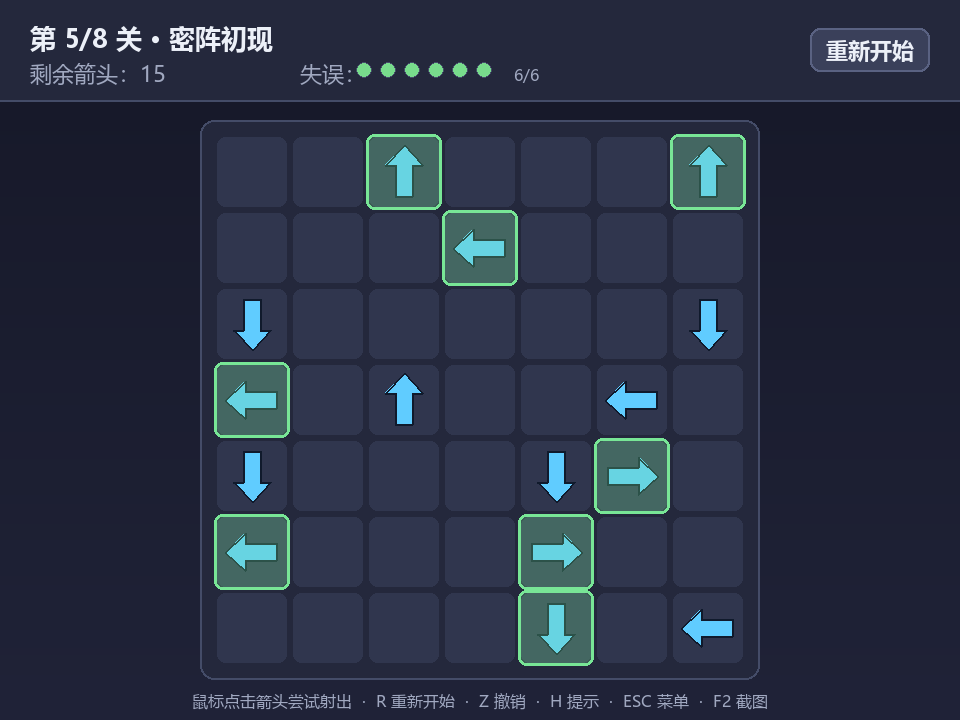
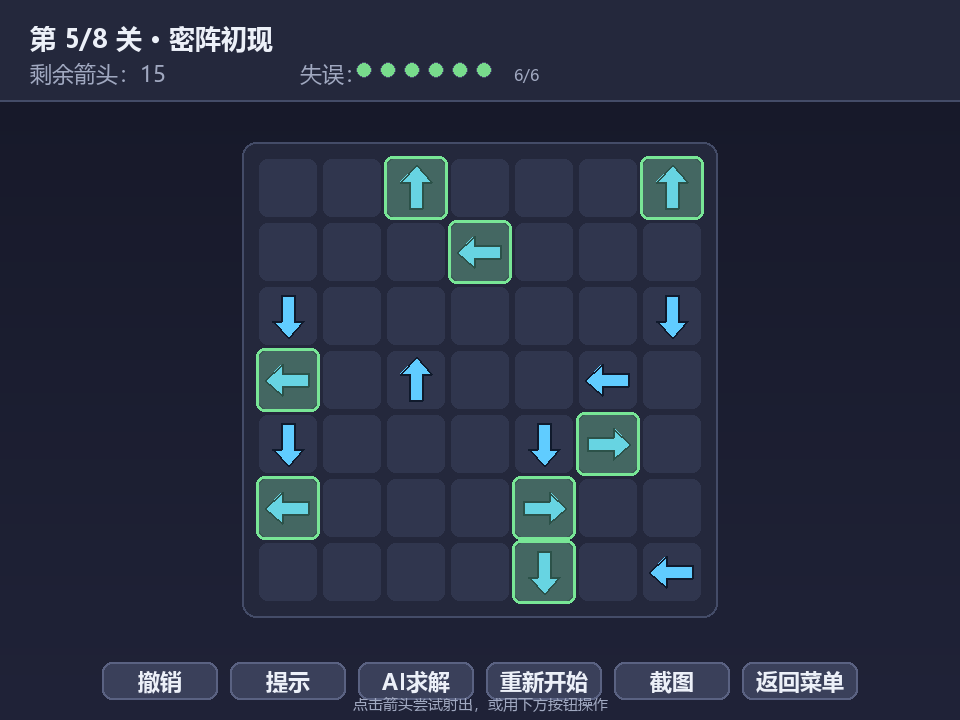
feat: 全部功能做成底部按钮（撤销/提示/AI求解/重新开始/截图/菜单），无需键盘

Changed region(s): [[0.0938, 0.1833, 0.9062, 1.0], [0.8438, 0.0306, 0.9688, 0.1222], [0.4062, 0.4889, 0.4688, 0.6111]]

diff --git a/第二次作业/arrow_game.py b/第二次作业/arrow_game.py
@@ -36,7 +36,7 @@ import pygame
 # ============================== 基础配置 ==============================
 WIN_W, WIN_H = 960, 720
 FPS = 60
-CELL = 76                     # 每格像素边长
+CELL = 64                     # 每格像素边长（缩小以留出底部按钮栏）
 ARROW_SCALE = 0.82            # 箭头相对格子的大小
 
 # 配色
@@ -474,7 +474,20 @@ class Game:
         self.retry_btn = Button((WIN_W // 2 - 120, WIN_H // 2 + 30, 240, 54), "重新开始")
         self.menu_return_btn = Button((WIN_W // 2 - 110, WIN_H // 2 + 98, 220, 44),
                                       "返回菜单", text_color=C_DIM)
-        self.hud_restart = Button((WIN_W - 150, 28, 120, 44), "重新开始")
+        # 底部操作按钮栏（把原先的键盘功能全部做成按钮）
+        bw, bh, gap = 116, 38, 12
+        labels = [("撤销", C_DIM), ("提示", C_HINT), ("AI求解", C_OK),
+                  ("重新开始", C_ACCENT), ("截图", C_DIM), ("返回菜单", C_DIM)]
+        total = len(labels) * bw + (len(labels) - 1) * gap
+        x0 = (WIN_W - total) // 2
+        by = WIN_H - 58
+        self.action_labels = [l for l, _ in labels]
+        self.action_buttons = []
+        for i, (lab, col) in enumerate(labels):
+            self.action_buttons.append(
+                Button((x0 + i * (bw + gap), by, bw, bh), lab, text_color=col))
+        self.btn_undo, self.btn_hint, self.btn_solve, \
+            self.btn_restart, self.btn_shot, self.btn_menu = self.action_buttons
 
         self.feedback = ""
         self.feedback_t = 0.0
@@ -512,7 +525,7 @@ class Game:
         gw = self.cols * CELL
         gh = self.rows * CELL
         self.grid_x = (WIN_W - gw) // 2
-        self.grid_y = 120 + (WIN_H - 120 - 40 - gh) // 2
+        self.grid_y = 120 + (WIN_H - 120 - 80 - gh) // 2   # 底部留 80px 给按钮栏
 
     def load_level(self, i):
         """加载固定关卡 i（关卡/画廊模式）。"""
@@ -691,7 +704,21 @@ class Game:
 
     # ---------- 截图 ----------
     def save_screenshot(self):
-        name = f"shot_{int(time.time())}.png"
+        name = f"arrow_{int(time.time())}.png"
+        # 网页版：把游戏 canvas 直接导出为 PNG 并触发下载
+        try:
+            from js import document            # 仅 pygbag 环境存在
+            cvs = document.querySelectorAll("canvas")
+            if cvs.length:
+                a = document.createElement("a")
+                a.setAttribute("href", cvs[0].toDataURL("image/png"))
+                a.setAttribute("download", name)
+                a.click()
+                self.set_feedback("已下载截图 " + name, 1.6)
+                return
+        except Exception:
+            pass
+        # 桌面版：保存到 screenshots/
         try:
             os.makedirs("screenshots", exist_ok=True)
             pygame.image.save(self.screen, os.path.join("screenshots", name))
@@ -755,9 +782,29 @@ class Game:
             elif self.random_btn.clicked(mpos):
                 self.enter_random_mode()
         elif self.state == self.PLAYING:
-            if self.hud_restart.clicked(mpos):
+            if self.btn_undo.clicked(mpos):
+                self.stop_auto_solve()
+                self.undo()
+            elif self.btn_hint.clicked(mpos):
+                self.stop_auto_solve()
+                self.hint_t = 2.2
+                n = sum(1 for r in range(self.rows) for c in range(self.cols)
+                        if self.board[r][c] and self.is_clear(r, c, self.board[r][c].d))
+                self.set_feedback(f"提示：当前有 {n} 支箭头可射出")
+            elif self.btn_solve.clicked(mpos):
+                if self.auto_solving:
+                    self.stop_auto_solve()
+                    self.set_feedback("已停止 AI 求解")
+                else:
+                    self.start_auto_solve()
+            elif self.btn_restart.clicked(mpos):
                 self.stop_auto_solve()
                 self.restart_level()
+            elif self.btn_shot.clicked(mpos):
+                self.save_screenshot()
+            elif self.btn_menu.clicked(mpos):
+                self.stop_auto_solve()
+                self.state = self.MENU
             else:
                 cell = self.pixel_to_cell(*mpos)
                 if cell:
@@ -783,7 +830,8 @@ class Game:
         self.next_btn.update(mpos)
         self.retry_btn.update(mpos)
         self.menu_return_btn.update(mpos)
-        self.hud_restart.update(mpos)
+        for b in self.action_buttons:
+            b.update(mpos)
         self.title_t += dt
         if self.feedback_t > 0:
             self.feedback_t -= dt
@@ -863,9 +911,12 @@ class Game:
         self.draw_hud()
         self.draw_grid()
         self.draw_projectiles()
-        hint_txt = "鼠标点击箭头尝试射出  ·  R 重新开始  ·  Z 撤销  ·  H 提示  ·  S AI求解  ·  ESC 菜单  ·  F2 截图"
-        t = font(16).render(hint_txt, True, C_DIM)
-        self.screen.blit(t, t.get_rect(midbottom=(WIN_W // 2, WIN_H - 8)))
+        # 底部操作按钮栏
+        for b in self.action_buttons:
+            b.draw(self.screen)
+        tip = "点击箭头尝试射出，或用下方按钮操作"
+        t = font(15).render(tip, True, C_DIM)
+        self.screen.blit(t, t.get_rect(midbottom=(WIN_W // 2, WIN_H - 6)))
 
     def draw_hud(self):
         bar = pygame.Rect(0, 0, WIN_W, 100)
@@ -891,7 +942,6 @@ class Game:
             pygame.draw.circle(self.screen, C_CELL_LINE, (px, py), 8, 1)
         remain = font(16).render(f"{self.mistakes}/{self.mistakes_max}", True, C_DIM)
         self.screen.blit(remain, (300 + 64 + self.mistakes_max * 24 + 6, 64))
-        self.hud_restart.draw(self.screen)
 
     def draw_grid(self):
         pad = 14

diff --git a/第二次作业/README.md b/第二次作业/README.md
@@ -69,18 +69,21 @@ python arrow_game.py
 
 ## 游戏操作说明
 
+> 游戏界面底部提供**按钮栏**：撤销 / 提示 / AI求解 / 重新开始 / 截图 / 返回菜单——**纯鼠标即可完成全部操作**，键盘快捷键同样保留。
+
 | 操作 | 作用 |
 | --- | --- |
 | 鼠标左键 | 点击箭头，尝试让其飞出棋盘 |
-| `R` | 重新开始当前关卡 |
-| `Z` | 撤销上一步（附加功能） |
-| `H` | 提示当前可飞出的箭头（附加功能） |
-| `S` | AI 自动求解当前关卡（附加功能） |
-| `空格` / `回车` | 开始 / 下一关 / 失败后重试 |
-| `ESC` | 返回菜单 / 再按退出 |
-| `F2` | 保存当前画面截图到 `screenshots/` |
+| 底部按钮栏 | 撤销、提示、AI求解、重新开始、截图、返回菜单 |
+| `R` | 重新开始当前关卡（快捷键） |
+| `Z` | 撤销上一步（快捷键） |
+| `H` | 提示当前可飞出的箭头（快捷键） |
+| `S` | AI 自动求解当前关卡（快捷键） |
+| `空格` / `回车` | 开始 / 下一关 / 失败后重试（快捷键） |
+| `ESC` | 返回菜单 / 再按退出（快捷键） |
+| `F2` | 保存当前画面截图（快捷键） |
 
-界面元素：顶部状态栏显示 **当前关卡、剩余箭头数、剩余失误次数（圆点）**，右上角为「重新开始」按钮。
+界面元素：顶部状态栏显示 **当前关卡、剩余箭头数、剩余失误次数（圆点）**；底部按钮栏提供全部操作按钮。
 
 ## 游戏截图
 

diff --git a/第二次作业/软件工程第二次个人作业.md b/第二次作业/软件工程第二次个人作业.md
@@ -27,7 +27,7 @@
 
 ![游戏界面](screenshots/02_play_level1.png)
 
-顶部状态栏显示当前关卡、剩余箭头数、剩余失误次数（以圆点表示），右上角为「重新开始」按钮。
+顶部状态栏显示当前关卡、剩余箭头数、剩余失误次数（以圆点表示），底部按钮栏提供撤销 / 提示 / AI求解 / 重新开始 / 截图 / 返回菜单，纯鼠标即可完成全部操作。
 
 ### 3. 提示功能（附加）
 
@@ -87,8 +87,7 @@
 
 - 顶部状态栏：当前关卡（X / 关卡总数）、剩余箭头数、剩余失误次数（圆点 + 数字）；
 - 中央棋盘：按关卡尺寸自动居中的网格，每格内绘制方向箭头；
-- 右上角：「重新开始」按钮；
-- 底部：操作提示条；
+- 底部按钮栏：**撤销 / 提示 / AI求解 / 重新开始 / 截图 / 返回菜单**——全部功能做成按钮，纯鼠标即可操作（键盘快捷键同样保留）；
 - 弹层：通关 / 失败 / 全部通关使用半透明遮罩 + 居中面板。
 
 ### 主要功能
